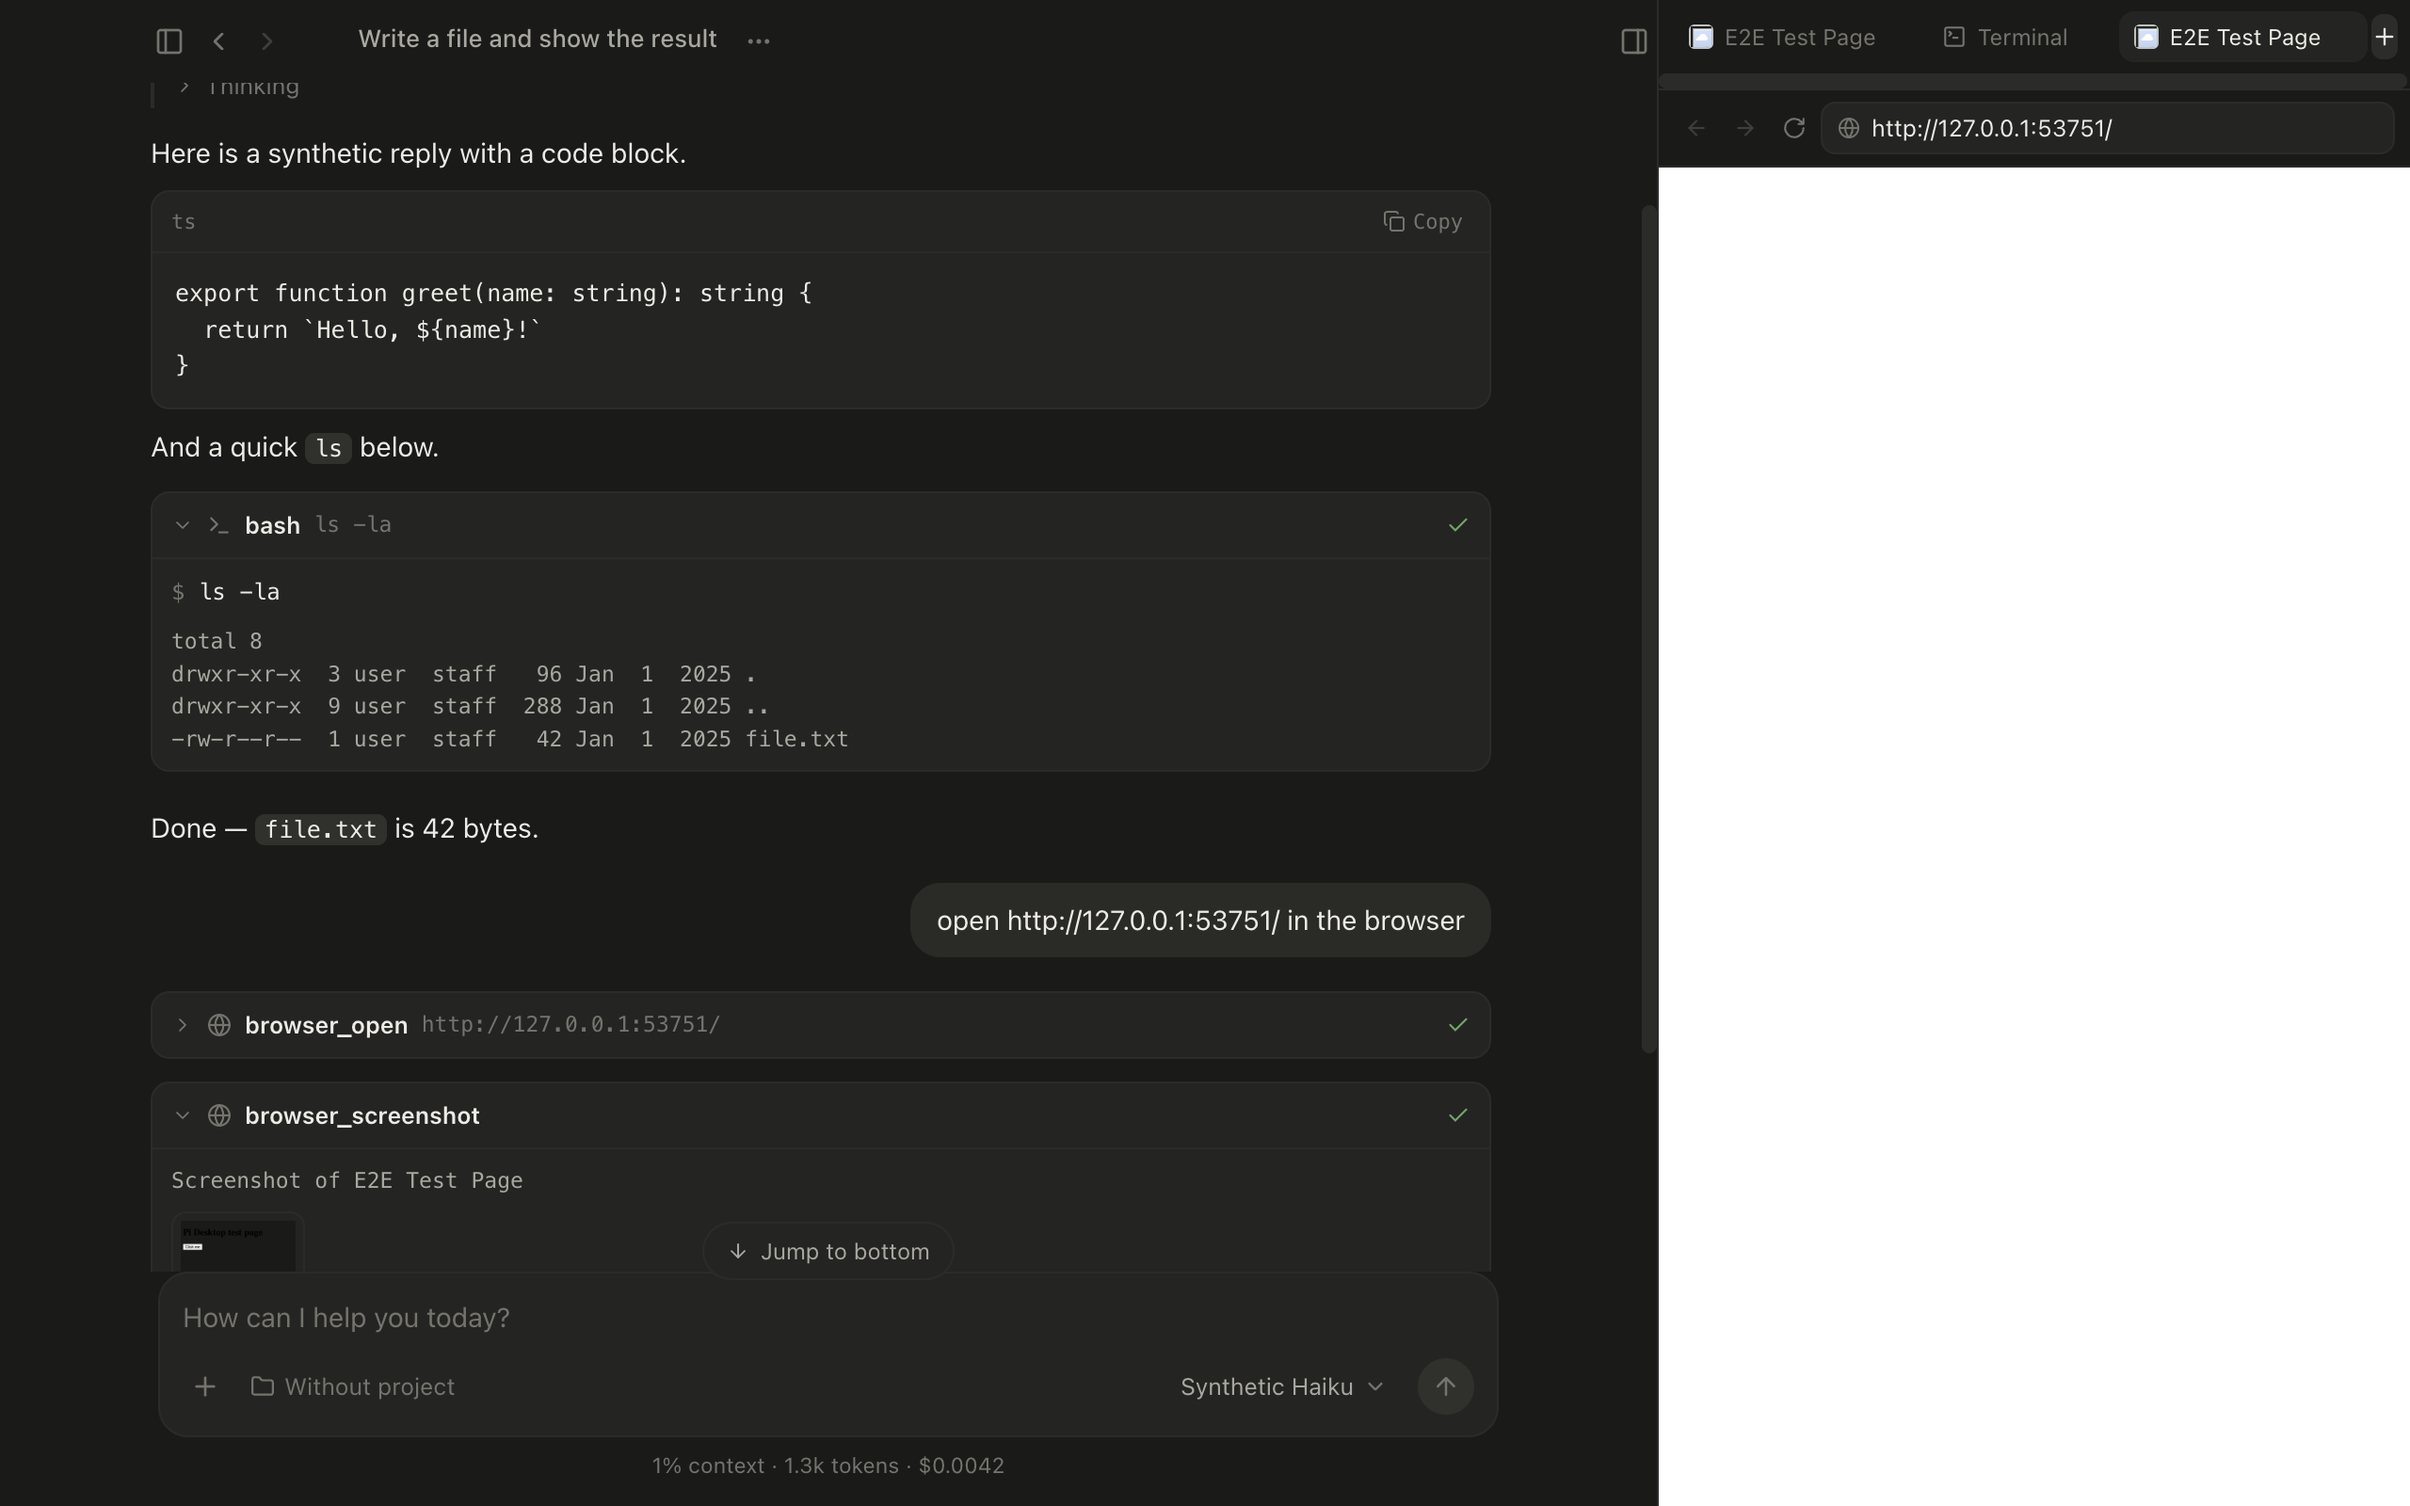
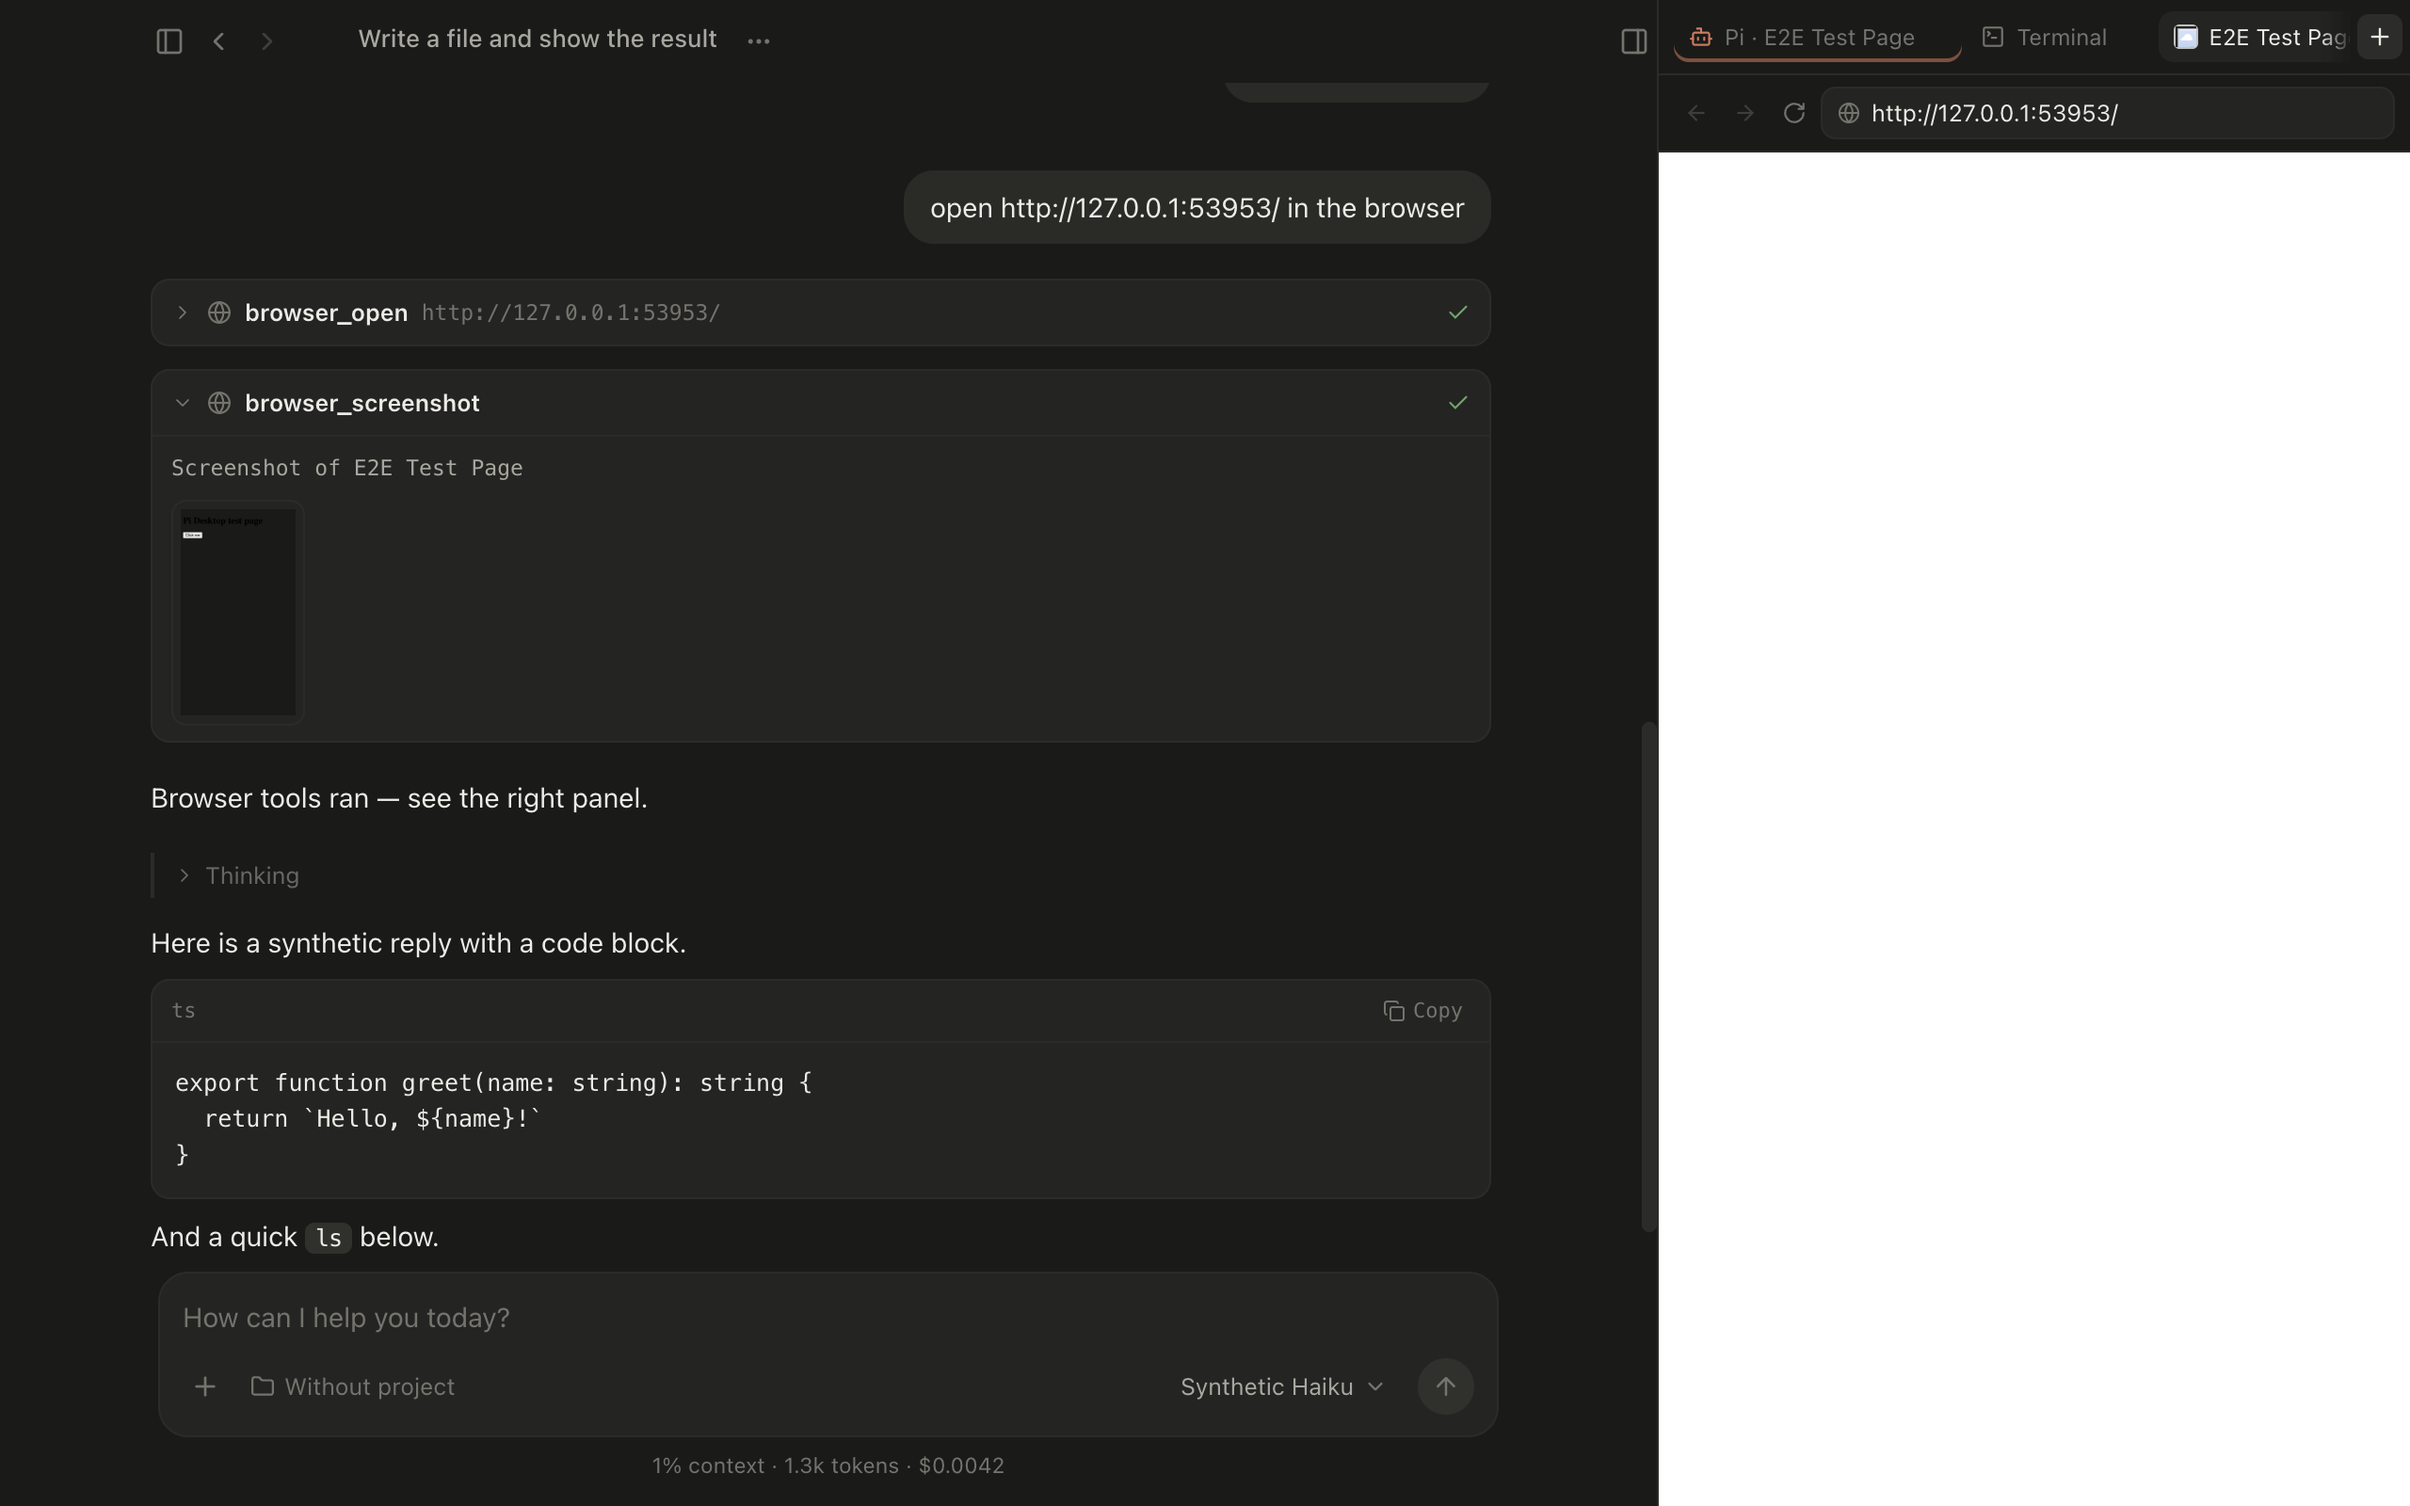
Add performance harness and verification
Bump version to 0.2.0. Extend the perf script with a --userdata flag
and the e2e suite with thinking-shimmer and markdown screenshots.
Fix pinned-to-bottom tracking so a new send always scrolls to the
latest message.

diff --git a/test/e2e/app.test.ts b/test/e2e/app.test.ts
@@ -290,6 +290,34 @@ describe('Pi Desktop e2e', () => {
     await page.screenshot({ path: join(SHOTS, 'chat-toolcard.png') })
   })
 
+  it('shows the thinking shimmer while a reply starts', async () => {
+    // "slow" makes the fake pi pause 2.5s before its first delta, so the
+    // pending shimmer row is on screen long enough to capture.
+    await page.locator('.composer-input').fill('slow reply please')
+    await page.keyboard.press('Enter')
+    await visible(page, '.msg-pending .shimmer-text')
+    // 'visible' only means rendered — wait until the pending row is actually
+    // inside the scroll viewport before shooting.
+    await page.waitForFunction(
+      `(() => {
+        const el = document.querySelector('.msg-pending')
+        if (!el) return false
+        const r = el.getBoundingClientRect()
+        return r.top >= 0 && r.bottom <= window.innerHeight
+      })()`,
+      undefined,
+      { timeout: 5_000 }
+    )
+    await page.screenshot({ path: join(SHOTS, 'chat-streaming.png') })
+    // Let the reply finish; the scripted answer includes a markdown table.
+    await visible(page, '.markdown .table-scroll table', 30_000)
+    await page.screenshot({ path: join(SHOTS, 'chat-markdown.png') })
+    await page.evaluate("document.documentElement.dataset.theme = 'light'")
+    await page.waitForTimeout(250)
+    await page.screenshot({ path: join(SHOTS, 'chat-markdown-light.png') })
+    await page.evaluate("document.documentElement.dataset.theme = 'dark'")
+  })
+
   it('drives the in-app browser via the pi browser tools', async () => {
     // Still on the chat view from the previous test. The fake pi sees the
     // bridge env vars and issues real browser_open/browser_screenshot calls

diff --git a/src/renderer/src/components/ChatView.tsx b/src/renderer/src/components/ChatView.tsx
@@ -525,6 +525,9 @@ export function ChatView({ chatId }: { chatId: string }) {
           chat={chat}
           isChat
           onSend={(message, images, mode) => {
+            // Sending always re-pins to the bottom — the user's own message
+            // and the pending/streaming rows belong in view.
+            stickRef.current = true
             void useChatStore.getState().send(chatId, message, images, mode).catch(() => {})
           }}
         />
